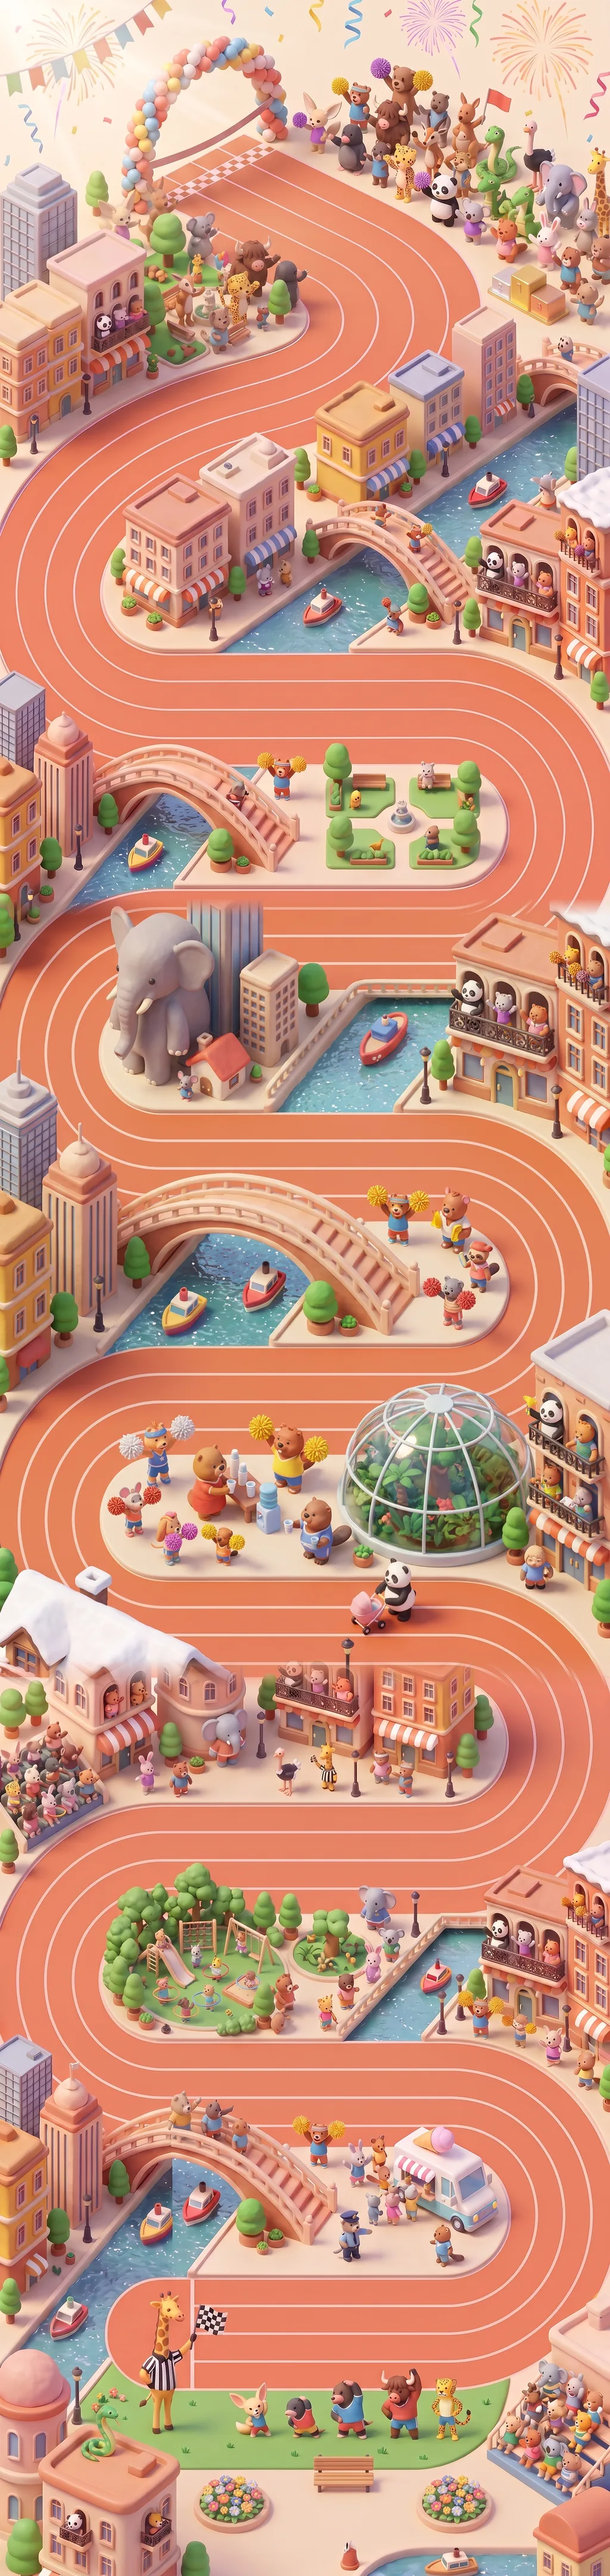
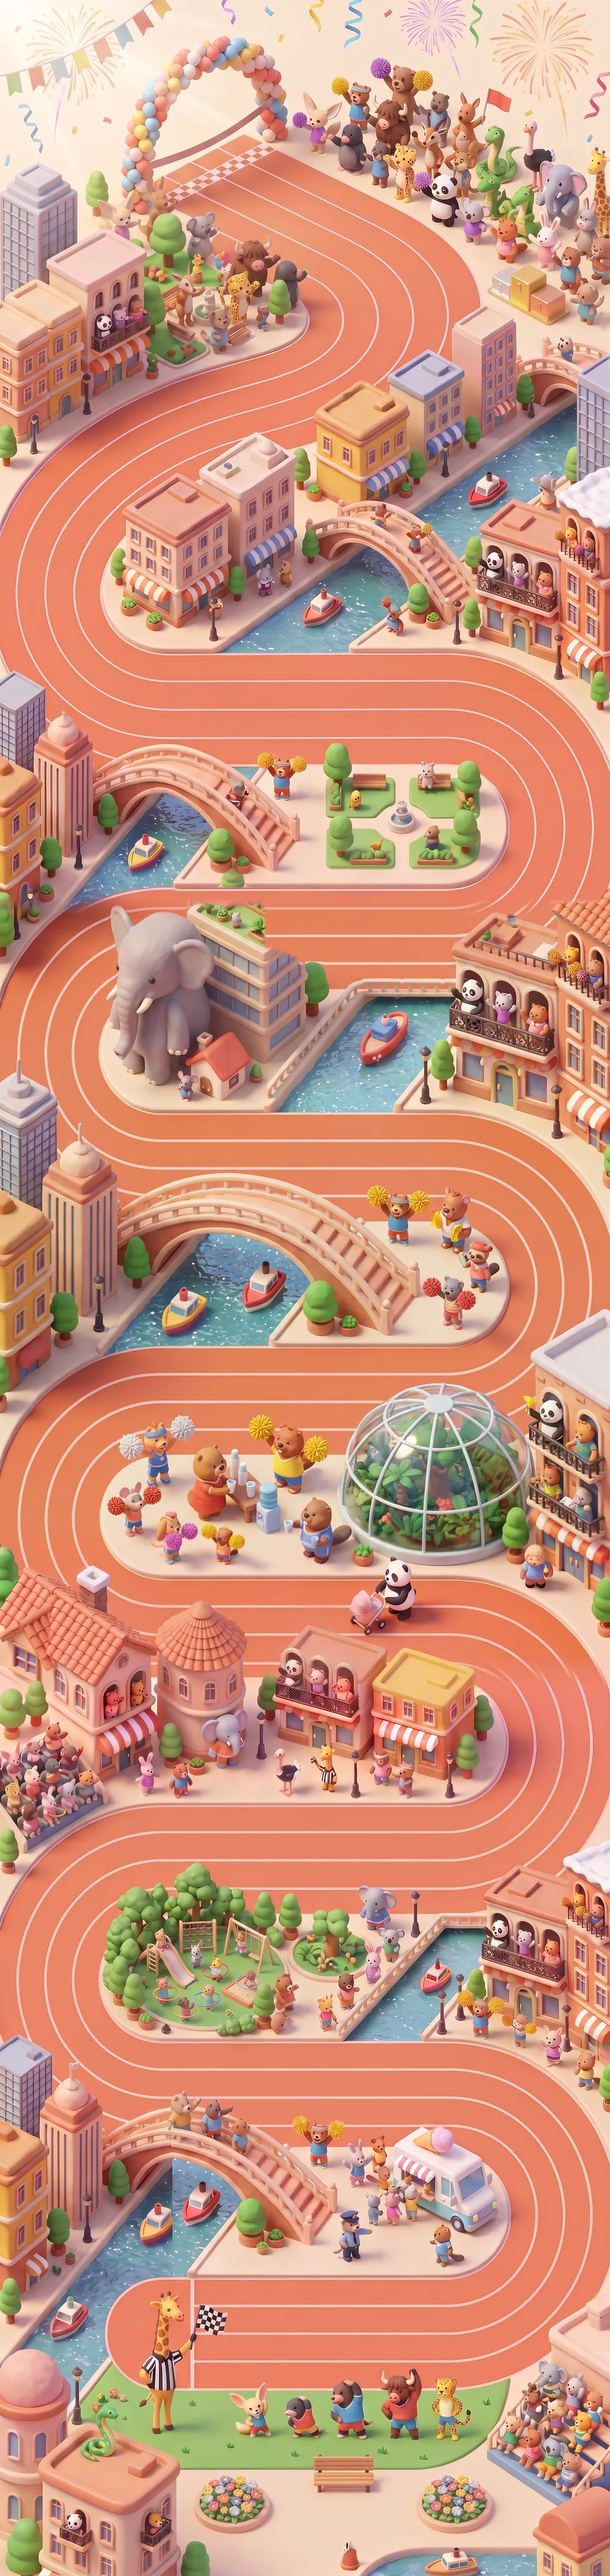
长棋盘地图：去掉雪顶，补全被跑道盖住的楼顶
- 大象旁的高楼补上楼顶（屋顶花园），右上角和左下角的雪顶换成夏天的瓦屋顶
- 左下角岛上四栋房子降低一层、补全屋顶，不再伸进跑道
- 重新描了跑道中线，格子仍然都在跑道上

diff --git a/js/map-paths.js b/js/map-paths.js
@@ -1,4 +1,4 @@
 /* 由 tools/build_sports.py 生成：长棋盘运动会地图上画出来的跑道中线（地图单位，宽 400）。游戏沿这条线等距摆格子。 */
 const MAP_PATHS = {
-  long: { H: 1687, path: [[182.5,1530.4],[191.4,1527.5],[200.8,1527.3],[210.2,1527.2],[219.5,1526.5],[228.9,1525.2],[238.3,1523.0],[247.7,1521.2],[257.0,1521.1],[266.4,1521.1],[275.8,1521.1],[285.2,1521.1],[294.5,1521.2],[303.9,1521.6],[313.3,1521.1],[322.7,1518.7],[331.3,1513.6],[339.2,1505.6],[347.7,1497.9],[355.1,1490.7],[360.0,1482.0],[363.3,1472.7],[365.6,1463.3],[368.2,1453.9],[368.2,1444.5],[365.4,1435.2],[363.3,1425.8],[360.5,1416.4],[355.8,1407.0],[349.3,1397.7],[341.2,1389.1],[332.0,1382.2],[322.7,1375.1],[313.3,1368.7],[303.9,1365.4],[294.5,1364.0],[285.2,1363.3],[275.8,1363.3],[266.4,1363.5],[257.0,1364.0],[247.7,1363.9],[238.3,1363.3],[228.9,1363.3],[219.5,1363.3],[210.2,1363.3],[200.8,1362.9],[191.4,1362.2],[182.0,1361.4],[172.7,1359.0],[163.3,1356.2],[153.9,1355.5],[144.5,1354.1],[135.2,1352.7],[125.8,1352.3],[116.4,1352.3],[107.0,1352.6],[97.7,1354.7],[88.3,1358.8],[79.4,1357.5],[70.7,1349.9],[61.7,1343.8],[54.5,1337.7],[49.8,1328.9],[45.4,1319.5],[40.0,1310.2],[33.6,1300.8],[31.2,1291.4],[33.4,1282.0],[35.6,1272.7],[38.3,1263.3],[42.2,1253.9],[46.8,1244.5],[52.1,1235.2],[58.6,1226.0],[66.4,1218.8],[75.8,1214.5],[85.2,1211.6],[94.5,1207.5],[103.9,1202.6],[113.3,1199.8],[122.7,1199.2],[132.0,1199.2],[141.4,1199.2],[150.8,1199.9],[160.2,1202.7],[169.5,1205.8],[178.9,1207.4],[188.3,1208.1],[197.7,1208.5],[207.0,1207.8],[216.4,1207.0],[225.8,1207.0],[235.2,1207.0],[244.5,1207.0],[253.9,1207.0],[263.3,1207.0],[272.7,1207.6],[282.0,1209.1],[291.4,1210.2],[300.8,1211.6],[310.2,1211.2],[319.5,1207.4],[328.9,1203.8],[337.9,1201.6],[345.3,1196.0],[351.9,1187.7],[357.8,1178.9],[361.2,1169.5],[363.5,1160.2],[365.9,1150.8],[367.5,1141.4],[366.3,1132.0],[363.0,1122.7],[360.5,1113.3],[356.7,1103.9],[350.9,1094.5],[343.0,1085.8],[333.6,1080.0],[324.2,1077.3],[314.8,1075.4],[305.5,1076.9],[296.1,1081.2],[286.7,1084.3],[277.3,1083.8],[268.0,1083.1],[258.6,1083.6],[249.2,1084.8],[240.6,1089.5],[231.9,1093.0],[222.9,1090.4],[214.2,1083.5],[205.5,1074.2],[196.1,1066.6],[186.7,1063.3],[177.3,1062.0],[168.0,1059.8],[158.6,1057.5],[149.2,1055.0],[139.8,1052.9],[130.5,1051.1],[121.1,1049.6],[111.7,1047.9],[102.3,1046.0],[93.0,1043.6],[84.3,1039.4],[77.1,1032.0],[69.4,1023.4],[60.2,1016.5],[50.8,1009.6],[42.2,1000.8],[37.1,991.4],[35.8,982.0],[36.5,972.7],[38.8,963.3],[42.8,953.9],[48.6,944.5],[54.4,935.2],[60.9,926.9],[69.5,921.8],[78.9,918.1],[88.3,912.3],[97.7,907.3],[107.0,905.0],[116.4,904.3],[125.8,903.9],[135.2,903.9],[144.5,904.0],[153.9,904.0],[163.3,903.9],[172.7,903.9],[182.0,903.9],[191.4,904.5],[200.8,906.7],[210.2,905.9],[219.5,902.2],[228.9,899.5],[238.3,897.3],[247.7,895.3],[257.0,893.7],[266.4,892.5],[275.8,891.8],[285.2,891.4],[294.5,891.4],[303.9,892.1],[313.3,892.8],[322.7,892.6],[330.7,888.6],[336.2,880.5],[341.5,871.1],[347.5,861.7],[352.6,852.3],[356.9,843.0],[361.0,833.6],[362.9,824.2],[361.7,814.8],[358.6,805.5],[352.8,796.5],[345.3,787.8],[337.0,779.7],[328.4,773.4],[319.5,769.4],[310.4,765.9],[302.5,760.5],[294.4,756.2],[285.2,754.5],[275.8,753.3],[266.4,752.7],[257.0,752.3],[247.7,752.3],[238.3,752.3],[228.9,752.3],[219.5,752.2],[210.2,751.5],[200.8,750.2],[191.4,749.5],[182.0,748.9],[172.7,748.1],[163.3,747.2],[153.9,746.5],[144.5,746.1],[135.2,746.1],[125.8,746.5],[116.4,747.2],[107.0,747.9],[97.7,748.3],[88.3,745.9],[78.9,740.2],[69.5,735.3],[60.5,730.6],[54.3,724.0],[51.6,714.8],[49.8,705.5],[47.1,696.1],[43.1,686.7],[38.6,677.3],[36.7,668.0],[40.4,658.6],[46.3,649.2],[50.3,639.8],[53.8,631.1],[57.6,622.4],[60.9,613.3],[64.5,603.9],[70.4,595.6],[78.9,591.2],[88.3,591.0],[97.7,590.9],[107.0,589.8],[116.4,588.0],[125.8,585.9],[135.2,585.3],[144.5,586.0],[153.9,586.4],[163.3,585.6],[172.7,586.1],[182.0,590.8],[191.4,597.4],[200.8,600.9],[210.2,602.1],[219.5,603.4],[228.9,604.1],[238.3,606.4],[247.7,609.2],[257.0,610.2],[266.4,607.6],[275.8,602.1],[285.2,598.1],[294.5,597.1],[303.9,595.0],[313.3,592.1],[322.7,588.8],[332.0,585.8],[340.3,582.4],[347.5,576.0],[355.5,567.5],[362.6,558.6],[368.3,549.2],[371.5,539.8],[369.2,530.5],[364.7,521.1],[362.4,511.7],[358.8,502.3],[352.8,493.0],[344.9,483.6],[336.2,475.8],[327.3,471.3],[318.0,469.3],[308.6,467.2],[299.2,465.3],[289.8,463.9],[280.5,462.6],[271.1,462.0],[261.7,460.2],[252.3,457.9],[243.0,457.0],[233.6,457.0],[224.2,457.0],[214.8,457.0],[205.5,457.0],[196.1,457.4],[186.7,459.3],[177.3,462.0],[168.0,463.2],[158.6,461.1],[149.2,459.0],[139.8,458.6],[130.5,458.6],[121.1,458.5],[111.7,457.0],[102.3,455.6],[93.0,455.5],[83.6,454.3],[74.2,449.9],[64.8,445.1],[56.9,440.1],[50.9,432.0],[44.9,422.7],[38.8,413.3],[34.3,403.9],[29.0,394.5],[28.1,385.2],[32.4,375.8],[35.5,366.4],[37.4,357.0],[40.6,347.7],[45.9,338.3],[52.9,328.9],[59.6,319.5],[66.8,312.1],[75.8,306.1],[85.2,300.2],[94.5,294.9],[103.4,290.1],[112.1,284.7],[121.1,278.5],[130.5,273.4],[139.8,268.2],[149.2,264.6],[158.6,262.4],[168.0,260.8],[177.2,258.8],[185.2,254.5],[193.1,249.3],[202.3,245.4],[211.7,240.4],[220.5,233.1],[226.9,224.2],[230.9,214.8],[234.4,205.5],[238.3,196.1],[238.9,186.7],[235.9,177.3],[231.6,168.0],[226.5,159.2],[219.3,151.9],[214.2,149.1]] }
+  long: { H: 1687, path: [[182.5,1530.4],[191.4,1527.5],[200.8,1527.3],[210.2,1527.2],[219.5,1526.5],[228.9,1525.2],[238.3,1523.0],[247.7,1521.2],[257.0,1521.1],[266.4,1521.1],[275.8,1521.1],[285.2,1521.1],[294.5,1521.2],[303.9,1521.6],[313.3,1521.1],[322.7,1518.7],[331.3,1513.6],[339.2,1505.6],[347.7,1497.9],[355.1,1490.7],[360.0,1482.0],[363.3,1472.7],[365.6,1463.3],[368.2,1453.9],[368.2,1444.5],[365.4,1435.2],[363.3,1425.8],[360.5,1416.4],[355.8,1407.0],[349.3,1397.7],[341.2,1389.1],[332.0,1382.2],[322.7,1375.1],[313.3,1368.7],[303.9,1365.4],[294.5,1364.0],[285.2,1363.3],[275.8,1363.3],[266.4,1363.5],[257.0,1364.0],[247.7,1363.9],[238.3,1363.3],[228.9,1363.3],[219.5,1363.3],[210.2,1363.3],[200.8,1362.9],[191.4,1362.2],[182.0,1361.4],[172.7,1359.0],[163.3,1356.2],[153.9,1355.5],[144.5,1354.1],[135.2,1352.7],[125.8,1352.3],[116.4,1352.3],[107.0,1352.6],[97.7,1354.7],[88.3,1358.8],[79.4,1357.5],[70.7,1349.9],[61.7,1343.8],[54.5,1337.7],[49.8,1328.9],[45.4,1319.5],[40.0,1310.2],[33.6,1300.8],[31.2,1291.4],[33.4,1282.0],[35.6,1272.7],[38.3,1263.3],[42.2,1253.9],[46.8,1244.5],[52.1,1235.2],[58.6,1226.0],[66.4,1218.8],[75.8,1214.5],[85.2,1211.6],[94.5,1207.8],[103.9,1202.8],[113.3,1199.8],[122.7,1199.2],[132.0,1199.2],[141.4,1199.2],[150.8,1199.9],[160.2,1202.7],[169.5,1205.8],[178.9,1207.4],[188.3,1208.1],[197.7,1208.5],[207.0,1207.8],[216.4,1207.0],[225.8,1207.0],[235.2,1207.0],[244.5,1207.0],[253.9,1207.0],[263.3,1207.0],[272.7,1207.6],[282.0,1209.1],[291.4,1210.2],[300.8,1211.6],[310.2,1211.2],[319.5,1207.4],[328.9,1203.8],[338.0,1201.6],[346.0,1195.7],[352.9,1186.7],[358.5,1177.3],[361.6,1168.0],[363.8,1158.6],[366.5,1149.2],[367.5,1139.8],[365.8,1130.5],[362.9,1121.1],[359.9,1111.7],[355.7,1102.3],[349.6,1093.0],[341.5,1084.4],[333.5,1076.5],[325.5,1069.3],[316.4,1063.9],[307.0,1060.4],[297.7,1060.5],[288.3,1065.3],[278.9,1069.9],[269.5,1071.3],[260.9,1074.8],[252.2,1079.5],[243.0,1080.0],[234.6,1074.9],[226.6,1068.7],[218.0,1062.9],[208.6,1057.3],[199.2,1054.0],[189.8,1054.6],[180.5,1056.1],[171.1,1057.0],[161.7,1056.6],[152.3,1051.9],[143.0,1044.2],[133.6,1040.2],[124.2,1040.0],[114.8,1042.5],[105.5,1049.1],[96.1,1051.9],[87.6,1046.1],[80.6,1036.7],[74.2,1027.8],[66.4,1020.6],[57.0,1014.4],[47.7,1006.8],[40.3,997.7],[36.5,988.3],[35.9,978.9],[37.1,969.5],[39.8,960.2],[44.7,950.8],[50.7,941.4],[56.4,932.2],[63.5,924.8],[72.7,920.6],[82.0,916.5],[91.4,910.3],[100.8,906.2],[110.2,904.7],[119.5,904.0],[128.9,903.9],[138.3,904.0],[147.7,904.0],[157.0,903.9],[166.4,903.9],[175.8,903.9],[185.2,904.0],[194.5,905.1],[203.9,906.8],[213.3,905.1],[222.7,901.1],[232.0,898.6],[241.4,896.6],[250.8,894.7],[260.2,893.3],[269.5,892.2],[278.9,891.5],[288.3,891.4],[297.7,891.6],[307.0,892.4],[316.4,893.0],[325.5,891.8],[332.8,886.4],[338.0,877.3],[343.4,868.0],[349.3,858.6],[354.0,849.2],[358.4,839.8],[362.0,830.5],[362.9,821.1],[360.9,811.7],[357.0,802.3],[350.5,793.6],[342.4,785.2],[334.2,777.2],[325.5,771.9],[316.4,768.4],[307.8,764.1],[299.8,758.6],[291.4,754.6],[282.0,753.8],[272.7,753.1],[263.3,752.5],[253.9,752.3],[244.5,752.3],[235.2,752.3],[225.8,752.3],[216.4,752.0],[207.0,751.1],[197.7,749.9],[188.3,749.2],[178.9,748.6],[169.5,747.9],[160.2,746.9],[150.8,746.2],[141.4,746.1],[132.0,746.1],[122.7,746.7],[113.3,747.4],[103.9,748.1],[94.5,747.7],[85.2,744.3],[75.8,738.3],[66.4,733.6],[58.4,728.8],[53.8,721.1],[52.0,711.7],[49.6,702.3],[45.9,693.0],[41.6,683.6],[37.6,674.2],[37.3,664.8],[42.6,655.5],[48.3,646.1],[52.0,636.7],[55.7,627.3],[59.8,618.0],[62.9,608.6],[66.6,599.3],[73.3,592.6],[82.0,590.4],[91.4,590.4],[100.8,590.2],[110.2,589.5],[119.5,587.0],[128.9,584.4],[138.3,585.0],[147.7,586.4],[157.0,586.7],[166.4,586.7],[175.8,587.4],[185.2,591.4],[194.5,597.2],[203.9,600.4],[213.3,601.6],[222.7,603.1],[232.0,604.4],[241.4,606.4],[250.8,608.4],[260.2,608.2],[269.5,604.4],[278.9,599.5],[288.3,597.3],[297.7,595.4],[307.0,593.3],[316.4,591.2],[325.8,588.4],[335.2,585.6],[344.5,582.0],[353.9,576.9],[363.3,569.3],[372.7,560.2],[379.6,550.8],[378.2,541.4],[370.4,532.0],[365.2,522.7],[362.8,513.3],[359.6,503.9],[354.0,494.5],[346.2,485.2],[337.7,476.9],[328.9,471.8],[319.5,469.5],[310.2,467.6],[300.8,465.7],[291.4,464.0],[282.0,462.7],[272.7,462.1],[263.3,460.5],[253.9,458.2],[244.5,457.0],[235.2,457.0],[225.8,457.0],[216.4,457.0],[207.0,457.0],[197.7,457.3],[188.3,458.8],[178.9,461.6],[169.5,463.3],[160.2,461.5],[150.8,459.3],[141.4,458.6],[132.0,458.6],[122.7,458.6],[113.3,457.3],[103.9,455.8],[94.5,455.5],[85.2,454.7],[75.8,450.8],[66.4,445.9],[58.0,441.0],[51.9,433.6],[46.0,424.2],[39.6,414.8],[35.2,405.5],[29.7,396.1],[27.8,386.7],[31.6,377.3],[35.2,368.0],[37.1,358.6],[40.0,349.2],[44.8,339.8],[51.7,330.5],[58.5,321.1],[65.4,313.2],[74.2,306.9],[83.6,301.4],[93.0,295.6],[102.0,290.9],[110.6,285.6],[119.5,279.5],[128.9,274.3],[138.3,269.1],[147.7,265.1],[157.0,262.8],[166.4,261.1],[175.8,259.3],[183.8,255.3],[191.8,250.2],[200.8,246.0],[210.2,241.4],[219.1,234.4],[226.0,225.8],[230.3,216.4],[233.8,207.0],[237.8,197.7],[239.1,188.3],[236.6,178.9],[232.3,169.5],[227.5,160.5],[220.6,152.9],[212.7,148.4]] }
 };

diff --git a/index.html b/index.html
@@ -7,13 +7,13 @@
 <link rel="preconnect" href="https://fonts.googleapis.com">
 <link rel="preconnect" href="https://fonts.gstatic.com" crossorigin>
 <link rel="stylesheet" href="https://fonts.googleapis.com/css2?family=Noto+Serif+SC:wght@700&family=ZCOOL+KuaiLe&display=swap">
-<link rel="stylesheet" href="css/style.css?v=13">
+<link rel="stylesheet" href="css/style.css?v=14">
 </head>
 <body>
 <div class="app" id="app"></div>
 <input type="file" id="fileIn" accept=".xlsx,.xls,.csv,.txt" hidden>
-<script src="js/hints.js?v=13"></script>
-<script src="js/map-paths.js?v=13"></script>
-<script src="js/game.js?v=13"></script>
+<script src="js/hints.js?v=14"></script>
+<script src="js/map-paths.js?v=14"></script>
+<script src="js/game.js?v=14"></script>
 </body>
 </html>

diff --git a/tools/build_sports.py b/tools/build_sports.py
@@ -91,6 +91,94 @@ def fix_joins(canvas):
     return canvas
 
 
+# 用户试玩后发现的问题（2026-10-18）：雪顶房子、被跑道盖掉楼顶的房子。请 AI 重画这几块，贴回时保护跑道。
+BUILDING_FIXES = [
+    # (窗口顶部行, 替换区域 [(x0, y0, x1, y1), …], 先把跑道补画回去的区域或 None, 提示词)
+    (1100, [(0, 1460, 1024, 1920)], None,
+     'Fix two buildings in this summer city picture. 1) The tall glass skyscraper standing next to the big grey elephant is cut off: '
+     'its top disappears into the running track. Rebuild it as a complete, shorter modern building with a proper flat rooftop '
+     '(maybe a little rooftop garden), standing fully on its own island and ending clearly below the edge of the track. 2) The '
+     'building at the top-right edge has a white snowy roof: give it a normal summer roof (terracotta tiles or a rooftop terrace). '
+     'There must be NO snow anywhere — it is a warm summer day. '),
+    (2050, [(0, 2590, 1024, 3010)], 'whole',
+     'Fix the buildings on the lower-left island of this summer city picture. 1) The big house on the far left has a white snowy '
+     'roof that covers part of the running track above it. Remove the snow and that overhang completely: the running track must '
+     'continue there, smooth and empty with its white lane lines, exactly like the rest of the track. Give the house a complete roof '
+     'of terracotta tiles that sits entirely on the island, BELOW the running track — make the house shorter so its roof does not '
+     'touch the track. 2) The round pink '
+     'tower and the building with the balcony full of spectators are cut off at the top: complete each with a proper roof, also '
+     'shorter so they fit fully on the island below the track. There must be NO snow anywhere — it is a warm summer day. '),
+    (2050, [(0, 2590, 1024, 3010)], 'whole',
+     'The four buildings on the lower-left island (the house with the tiled roof on the far left, the round tower, the building '
+     'with the balcony of spectators and the yellow building) are too tall: their roofs rise into the running track above them. '
+     'Make all four buildings LOWER — remove a floor and keep their complete tiled roofs — so that every roof ends clearly below '
+     'the bottom edge of the running track. The running track above them must be fully visible, empty and smooth, with its white '
+     'lane lines continuing. Keep the panda with the pink stroller, the spectators, the elephant and all other details. '),
+]
+FIX_TAIL = ('Keep the running track, its exact position, curves and white lane lines, and every other building, animal, bridge, '
+            'canal and boat exactly unchanged. Same 3D miniature-diorama style. No text, letters or numbers.')
+
+
+def fix_buildings(canvas):
+    """按 BUILDING_FIXES 局部重画。跑道（按颜色找出来的）不替换；被雪顶盖住的那段跑道，先按描出来的跑道中线补画回去再送给 AI。"""
+    from PIL import ImageChops
+    protect = track_mask(canvas).filter(ImageFilter.MinFilter(5)).filter(ImageFilter.GaussianBlur(2))
+    for k, (top, rects, refill, prompt) in enumerate(BUILDING_FIXES):
+        cache = os.path.join(G.RAW, f'sports-fix-{top}.png' if k < 2 else f'sports-fix-{top}-{k}.png')
+        win = canvas.crop((0, top, G.W, top + G.WIN_H))
+        if os.path.exists(cache):
+            new = Image.open(cache).convert('RGB')
+        else:
+            print(f'  修房子（窗口第 {top} 行起）…')
+            new = G.kie_image(prompt + FIX_TAIL, '2:3', images=[win], label=f'sports-fix-{top}').convert('RGB').resize((G.W, G.WIN_H), Image.LANCZOS)
+            new.save(cache)
+        m = Image.new('L', (G.W, G.WIN_H), 0); d = ImageDraw.Draw(m)
+        for x0, y0, x1, y1 in rects:
+            d.rectangle([x0, y0 - top, x1, y1 - top], fill=255)
+        m = m.filter(ImageFilter.GaussianBlur(20))
+        if refill != 'whole':   # 'whole'：这一块连跑道一起用 AI 的结果，之后重新描跑道中线
+            m = ImageChops.subtract(m, protect.crop((0, top, G.W, top + G.WIN_H)))
+        if refill and refill != 'whole':   # 补画的跑道也保护住
+            x0, y0, x1, y1 = refill
+            band = Image.new('L', (G.W, G.WIN_H), 0)
+            ImageDraw.Draw(band).line([(x, y - top) for x, y in ideal_track_px() if x0 - 80 <= x <= x1 + 80 and y0 - 80 <= y <= y1 + 80],
+                                      fill=255, width=round(66 * G.S))
+            m = ImageChops.subtract(m, band.filter(ImageFilter.GaussianBlur(2)))
+        canvas.paste(Image.composite(new, canvas.crop((0, top, G.W, top + G.WIN_H)), m), (0, top))
+    return canvas
+
+
+_IDEAL = None
+def ideal_track_px():
+    """上一次装进游戏的跑道中线（js/map-paths.js），换算成像素。"""
+    global _IDEAL
+    if _IDEAL is None:
+        import re
+        txt = open(os.path.join(G.ROOT, 'js', 'map-paths.js'), encoding='utf-8').read()
+        _IDEAL = [(float(a) * G.S, float(b) * G.S) for a, b in re.findall(r'\[([\d.]+),([\d.]+)\]', txt)]
+    return _IDEAL
+
+
+def refill_track(win, top, box):
+    """在 box 范围里沿跑道中线补画跑道（跑道色 + 白色分道线），盖住画到跑道上的东西。"""
+    x0, y0, x1, y1 = box
+    layer = Image.new('RGBA', win.size, (0, 0, 0, 0)); d = ImageDraw.Draw(layer)
+    pts = [(x, y - top) for x, y in ideal_track_px()]
+    d.line(pts, fill=TRACK + (255,), width=round(72 * G.S), joint='curve')
+    for w in (54, 36, 18):
+        d.line(pts, fill=LANE + (255,), width=round(w * G.S) + 4, joint='curve')
+        d.line(pts, fill=TRACK + (255,), width=round(w * G.S), joint='curve')
+    clip = Image.new('L', win.size, 0); ImageDraw.Draw(clip).rectangle([x0, y0 - top, x1, y1 - top], fill=255)
+    clip = clip.filter(ImageFilter.GaussianBlur(12))
+    layer.putalpha(ImageChops_multiply(layer.getchannel('A'), clip))
+    out = win.convert('RGBA'); out.alpha_composite(layer); return out.convert('RGB')
+
+
+def ImageChops_multiply(a, b):
+    from PIL import ImageChops
+    return ImageChops.multiply(a, b)
+
+
 def skeleton_path(mask, start_px, scale=4):
     """把跑道区域细化成一条中线，从起点附近沿中线走到最远（最上面）的一端。返回原图像素坐标的折线。"""
     from collections import deque
@@ -262,7 +350,16 @@ def install_extras(canvas, g, path):
 
 def main():
     g = G.map_geo(G.MAPS['long']); Hpx = round(g['H'] * G.S)
-    canvas = fix_joins(composite(Hpx))
+    canvas = fix_buildings(fix_joins(composite(Hpx)))
+    if '--keep-path' in sys.argv:   # 只换图，格子位置沿用 js/map-paths.js（修图没有移动跑道时用）
+        import re
+        txt = open(os.path.join(G.ROOT, 'js', 'map-paths.js'), encoding='utf-8').read()
+        path = [(float(a), float(b)) for a, b in re.findall(r'\[([\d.]+),([\d.]+)\]', txt)]
+        out = os.path.join(G.OUT_MAPS if '--install' in sys.argv else os.path.join(G.ROOT, 'art-src', 'preview'), 'map-long-sports.webp')
+        if '--install' in sys.argv:
+            rgb = canvas.convert('RGB'); o2 = os.path.join(G.OUT_PROPS, 'sports')
+            for name, box in CROPS.items(): rgb.crop(box).save(os.path.join(o2, f'{name}.webp'), 'WEBP', quality=86)
+        canvas.convert('RGB').save(out, 'WEBP', quality=82, method=6); print('完成（沿用原来的格子位置）', out); return
     sk = skeleton_path(track_mask(canvas), G.P(g['road'][0]))
     end = min(range(len(sk)), key=lambda i: (sk[i][0] - FINISH[0]) ** 2 + (sk[i][1] - FINISH[1]) ** 2)
     sk = sk[:end + 1]                       # 到终点线就停，最后一格正好在终点线上
